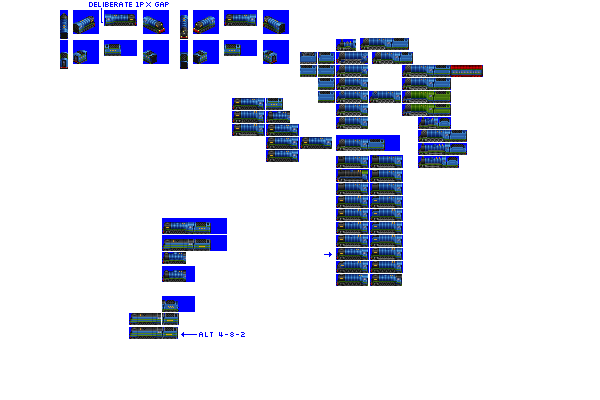
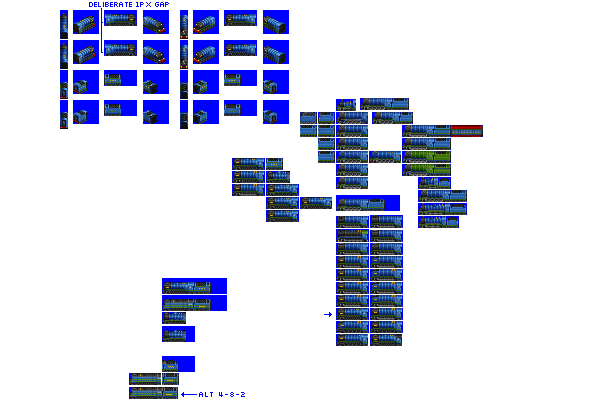
Change: additional banger blue livery for Pegasus

Changed region(s): [[0.09, 0.09, 0.81, 0.87], [0.21, 0.54, 0.39, 1.0]]

diff --git a/src/vehicles/pegasus.py b/src/vehicles/pegasus.py
@@ -14,9 +14,8 @@ def main(roster_id):
         },
         tractive_effort_coefficient=0.25,
         gen=3,
-        additional_liveries=[],
+        additional_liveries=["BANGER_BLUE"],
         sprites_complete=True,
-        sprites_additional_liveries_needed=True, # banger blue, 2CC?
     )
 
     consist.add_unit(
